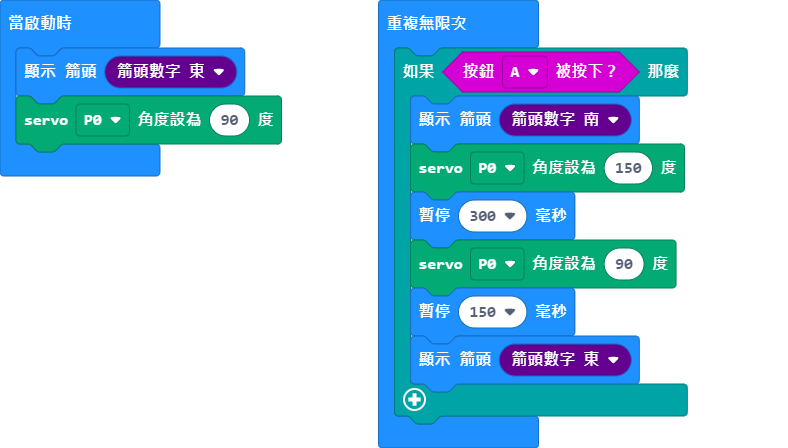
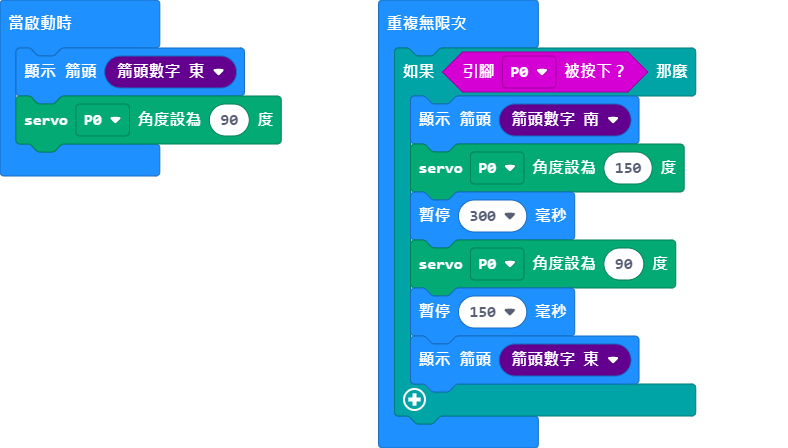
Update main.blocks, main.ts

diff --git a/main.ts b/main.ts
@@ -1,7 +1,7 @@
 basic.showArrow(ArrowNames.East)
 servos.P0.setAngle(90)
 basic.forever(function () {
-    if (input.buttonIsPressed(Button.A)) {
+    if (input.pinIsPressed(TouchPin.P0)) {
         basic.showArrow(ArrowNames.South)
         servos.P0.setAngle(150)
         basic.pause(300)
